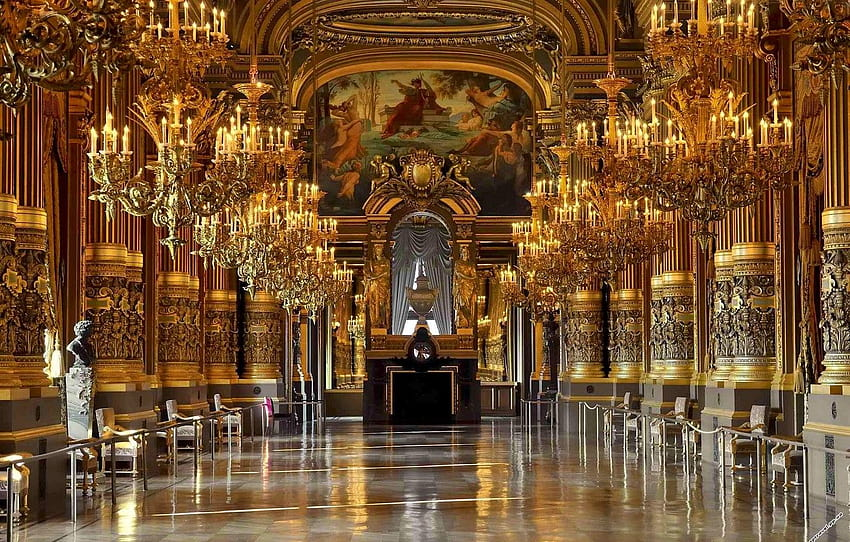
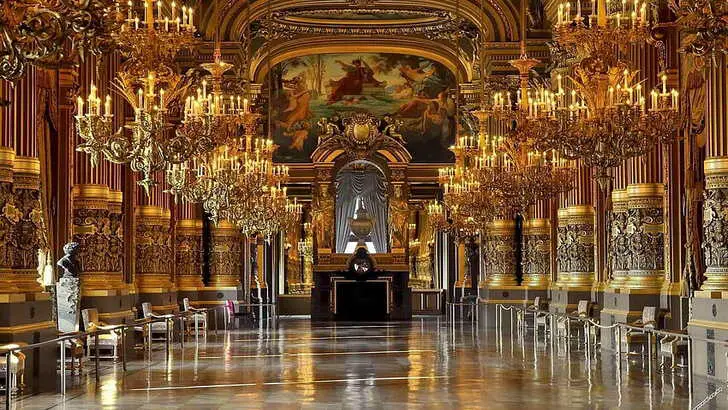
change in image size

diff --git a/assets/css/main_style.css b/assets/css/main_style.css
@@ -48,13 +48,15 @@ a:hover {
 .work-box,
 .service-box,
 .paralax-mf {
-  box-shadow: 0 13px 8px -10px rgba(0, 0, 0, 0.1);
+ /* box-shadow: 0 13px 8px -10px rgba(0, 0, 0, 0.1);*/
+  box-shadow: rgb(11, 104, 73,1) 0px 2px 4px 0px, rgba(11,104,73,1) 0px 2px 16px 0px;
 }
 
 .box-shadow-a,
 .button:hover {
   text-decoration: none;
-  box-shadow: 0 0 0 4px #cde1f8;
+ /* box-shadow: 0 0 0 4px #cdf8f0;*/
+  box-shadow: 0 0 0 4px #0b5345;
 }
 
 .display-5 {
@@ -1181,10 +1183,10 @@ a:hover {
 .card-blog .card-category {
   display: inline-block;
   color: #fff;
-  padding: 0 15px 5px;
+  padding: 0 15px 15px;
   overflow: hidden;
   background-color: #0b5345;
-  border-radius: 4px;
+  border-radius: 10px;
 }
 
 .card-blog .card-category .category {
@@ -1210,7 +1212,7 @@ a:hover {
 }
 
 .card-blog .post-date {
-  color: #4e4e4e;
+  color: #db0a0a;
   display: inline-block;
 }
 

diff --git a/index.html b/index.html
@@ -304,7 +304,7 @@
                 <h3 class="card-title">
                   <a href="blog-single.html">Read More</a>
                 </h3>
-                <p class="card-description">DESC</p>
+                <p class="card-description">Description</p>
               </div>
               <div class="card-footer">
                 <div class="post-author">
@@ -333,7 +333,7 @@
                 <h3 class="card-title">
                   <a href="blog-single.html">Read More</a>
                 </h3>
-                <p class="card-description">DESC</p>
+                <p class="card-description">Description</p>
               </div>
               <div class="card-footer">
                 <div class="post-author">
